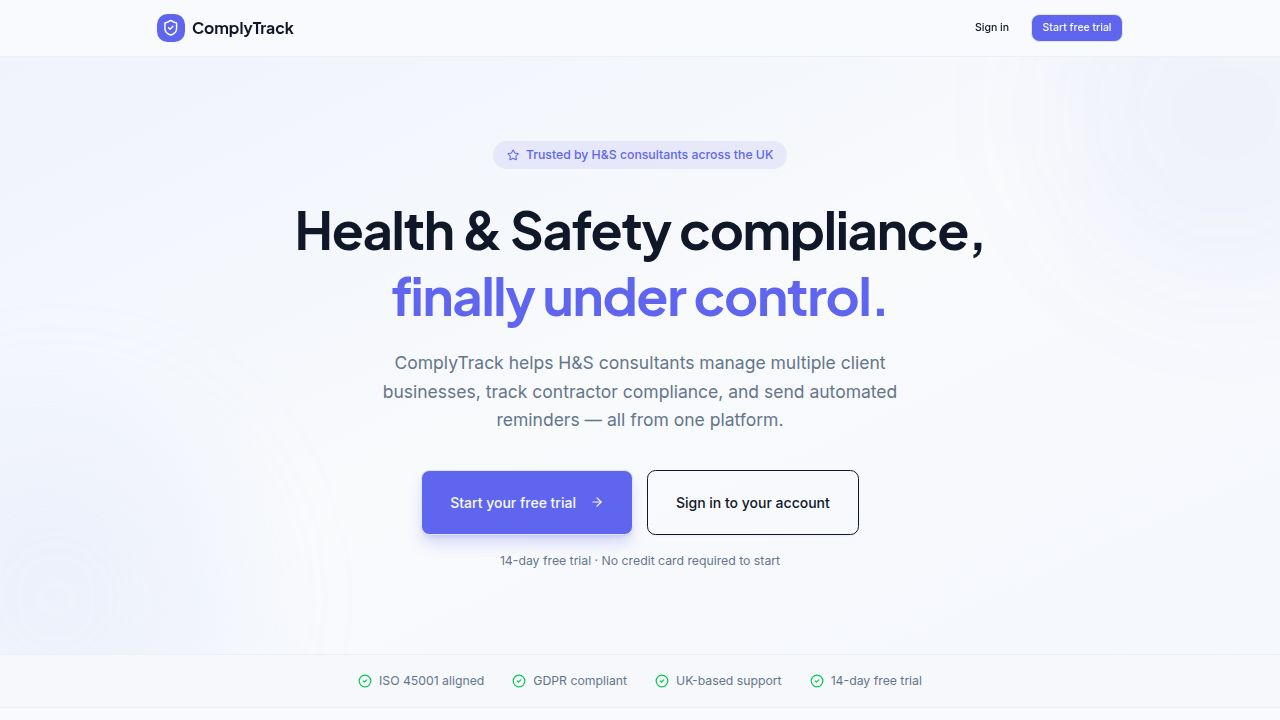
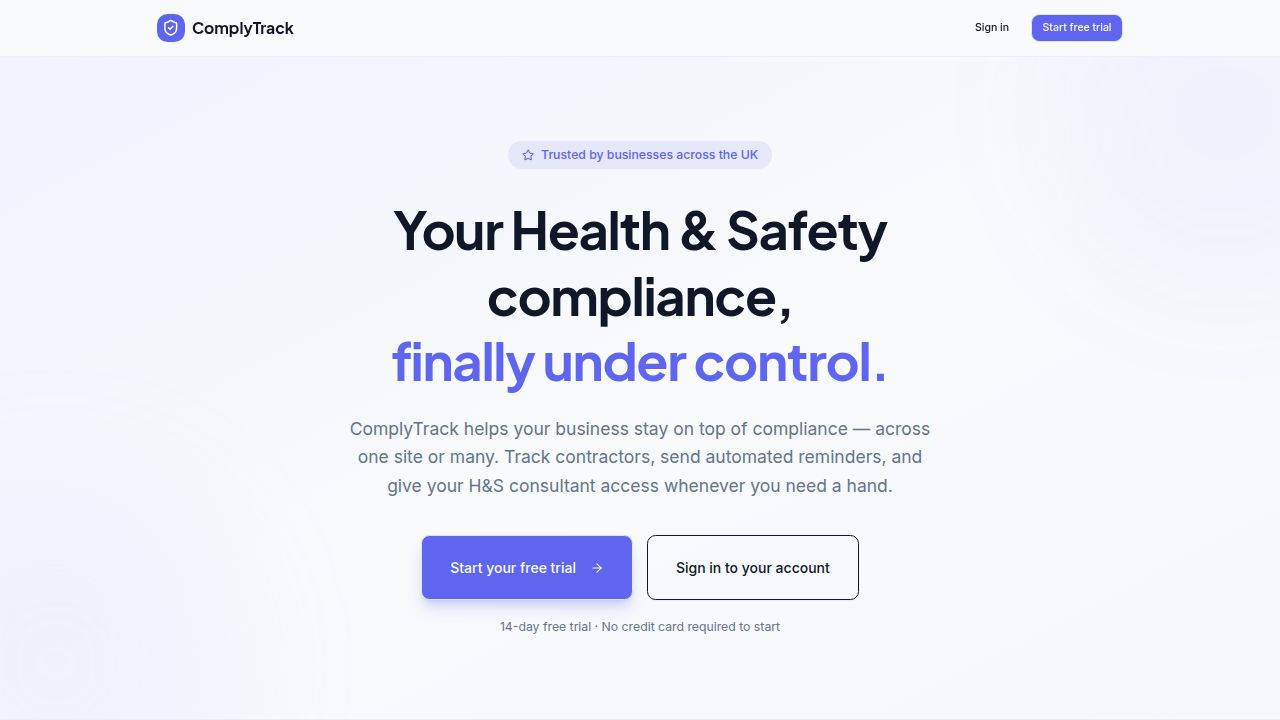
Update landing page and project documentation to target businesses
Refactors landing page copy, renames features from "client management" to "site management", and updates replit.md to reflect the new product positioning targeting individual businesses.

Replit-Commit-Author: Agent
Replit-Commit-Session-Id: d3f081e8-ec9e-47b6-984d-ecd33d533d77
Replit-Commit-Checkpoint-Type: full_checkpoint
Replit-Commit-Event-Id: e2d3d3b5-ec9b-431c-b20d-fd3377d2112c
Replit-Commit-Screenshot-Url: https://storage.googleapis.com/screenshot-production-us-central1/b1c00cfa-ecaf-4a16-a178-69b15ffe6eb7/d3f081e8-ec9e-47b6-984d-ecd33d533d77/nar0i1l
Replit-Helium-Checkpoint-Created: true

diff --git a/artifacts/compliance-tracker/src/pages/landing.tsx b/artifacts/compliance-tracker/src/pages/landing.tsx
@@ -4,12 +4,12 @@ import { Button } from "@/components/ui/button";
 import { motion } from "framer-motion";
 
 const FEATURES = [
-  { icon: Users, title: "Multi-Client Management", desc: "Manage unlimited client businesses from one dashboard. Switch between clients instantly." },
-  { icon: Bell, title: "Automated Reminders", desc: "Email contractors automatically as compliance deadlines approach. Never miss a check." },
-  { icon: FileText, title: "Contractor Tracking", desc: "Track certificates, compliance items, and contractor records with full audit trails." },
-  { icon: BarChart3, title: "Dashboard & Reporting", desc: "At-a-glance compliance status for every client. Spot issues before they become problems." },
-  { icon: Lock, title: "Role-Based Access", desc: "Invite clients with granular permissions — admin, staff, or view-only access." },
-  { icon: Zap, title: "ICS Calendar Invites", desc: "Every reminder includes a calendar attachment so contractors can schedule immediately." },
+  { icon: Users, title: "Multi-Site Ready", desc: "Manage compliance across one site or many. Keep each location's records, contractors, and tasks neatly separated." },
+  { icon: Bell, title: "Automated Reminders", desc: "Contractors and staff get email reminders as deadlines approach — so nothing slips through the cracks." },
+  { icon: FileText, title: "Contractor & Certificate Tracking", desc: "Track every contractor, insurance certificate, and compliance check with a full audit trail." },
+  { icon: BarChart3, title: "Live Compliance Dashboard", desc: "See your compliance status at a glance and spot issues long before they become problems." },
+  { icon: Lock, title: "Role-Based Access", desc: "Invite your team — and your H&S consultant if you have one — with the right level of access for each person." },
+  { icon: Zap, title: "Calendar Invites Built In", desc: "Every reminder includes a calendar attachment so contractors and staff can book the work straight in." },
 ];
 
 const PLANS = [
@@ -17,31 +17,31 @@ const PLANS = [
     name: "Starter",
     price: "£49",
     period: "/month",
-    description: "Perfect for independent consultants",
-    features: ["Up to 3 client businesses", "Core compliance tracking", "Email reminders", "Contractor portal"],
+    description: "For a single-site business",
+    features: ["1 site", "Core compliance tracking", "Email reminders", "Contractor portal"],
     highlight: false,
   },
   {
     name: "Professional",
     price: "£99",
     period: "/month",
-    description: "For growing consultancy practices",
-    features: ["Up to 10 client businesses", "All modules", "Priority support", "Advanced reporting"],
+    description: "For multi-site businesses",
+    features: ["Up to 5 sites", "All modules", "Priority support", "Advanced reporting"],
     highlight: true,
   },
   {
     name: "Enterprise",
     price: "£249",
     period: "/month",
-    description: "Unlimited scale for large practices",
-    features: ["Unlimited clients", "White-label branding", "Dedicated onboarding", "SLA guarantee"],
+    description: "For larger organisations",
+    features: ["Unlimited sites", "Custom branding", "Dedicated onboarding", "SLA guarantee"],
     highlight: false,
   },
 ];
 
 const TESTIMONIALS = [
-  { quote: "ComplyTrack saved us hours every week. Our clients love getting automatic reminders instead of us chasing them.", author: "Sarah M.", role: "H&S Consultant, Leeds" },
-  { quote: "Managing 12 client accounts used to be chaos. Now I have everything in one place with full visibility.", author: "James K.", role: "Principal Consultant, London" },
+  { quote: "We used to chase contractors over email and spreadsheets. ComplyTrack does it all for us automatically — our certificates are always up to date.", author: "Sarah M.", role: "Operations Manager, Leeds" },
+  { quote: "We manage compliance across four sites. Having everything in one place — and giving our consultant view-only access when needed — has been a game-changer.", author: "James K.", role: "Facilities Director, London" },
 ];
 
 export default function LandingPage() {
@@ -70,14 +70,14 @@ export default function LandingPage() {
         <div className="max-w-4xl mx-auto text-center">
           <motion.div initial={{ opacity: 0, y: 24 }} animate={{ opacity: 1, y: 0 }} transition={{ duration: 0.5 }}>
             <div className="inline-flex items-center gap-2 bg-primary/10 text-primary rounded-full px-4 py-1.5 text-sm font-medium mb-8">
-              <Star className="w-3.5 h-3.5" /> Trusted by H&S consultants across the UK
+              <Star className="w-3.5 h-3.5" /> Trusted by businesses across the UK
             </div>
             <h1 className="text-5xl sm:text-6xl font-bold font-display leading-tight mb-6 tracking-tight">
-              Health & Safety compliance,<br className="hidden sm:block" />
+              Your Health & Safety compliance,<br className="hidden sm:block" />
               <span className="text-primary"> finally under control.</span>
             </h1>
             <p className="text-xl text-muted-foreground mb-10 max-w-2xl mx-auto leading-relaxed">
-              ComplyTrack helps H&S consultants manage multiple client businesses, track contractor compliance, and send automated reminders — all from one platform.
+              ComplyTrack helps your business stay on top of compliance — across one site or many. Track contractors, send automated reminders, and give your H&S consultant access whenever you need a hand.
             </p>
             <div className="flex flex-col sm:flex-row items-center justify-center gap-4">
               <Button size="lg" className="px-8 py-6 text-base shadow-lg shadow-primary/25" onClick={() => navigate("/signup")}>
@@ -112,8 +112,8 @@ export default function LandingPage() {
       <section className="py-24 px-6">
         <div className="max-w-6xl mx-auto">
           <div className="text-center mb-16">
-            <h2 className="text-3xl font-bold font-display mb-3">Everything you need to run a compliance practice</h2>
-            <p className="text-muted-foreground text-lg">Built specifically for Health & Safety consultants in the UK.</p>
+            <h2 className="text-3xl font-bold font-display mb-3">Everything you need to stay compliant</h2>
+            <p className="text-muted-foreground text-lg">Built for UK businesses managing their own Health & Safety compliance.</p>
           </div>
           <div className="grid grid-cols-1 sm:grid-cols-2 lg:grid-cols-3 gap-6">
             {FEATURES.map((f, i) => (
@@ -139,7 +139,7 @@ export default function LandingPage() {
       {/* Testimonials */}
       <section className="bg-muted/20 border-y border-border/50 py-20 px-6">
         <div className="max-w-4xl mx-auto">
-          <h2 className="text-2xl font-bold font-display text-center mb-12">What consultants are saying</h2>
+          <h2 className="text-2xl font-bold font-display text-center mb-12">What businesses are saying</h2>
           <div className="grid grid-cols-1 sm:grid-cols-2 gap-6">
             {TESTIMONIALS.map((t) => (
               <div key={t.author} className="bg-card border border-border/50 rounded-2xl p-6">
@@ -162,7 +162,7 @@ export default function LandingPage() {
         <div className="max-w-5xl mx-auto">
           <div className="text-center mb-14">
             <h2 className="text-3xl font-bold font-display mb-3">Simple, transparent pricing</h2>
-            <p className="text-muted-foreground text-lg">Choose the plan that fits your practice. Upgrade or downgrade anytime.</p>
+            <p className="text-muted-foreground text-lg">Choose the plan that fits your business. Upgrade or downgrade anytime.</p>
           </div>
           <div className="grid grid-cols-1 sm:grid-cols-3 gap-6">
             {PLANS.map((plan) => (
@@ -212,8 +212,8 @@ export default function LandingPage() {
       {/* CTA Banner */}
       <section className="bg-primary py-20 px-6">
         <div className="max-w-3xl mx-auto text-center">
-          <h2 className="text-3xl font-bold text-white font-display mb-4">Ready to take control of your compliance practice?</h2>
-          <p className="text-white/70 text-lg mb-8">Join consultants across the UK using ComplyTrack to run more efficient, more profitable practices.</p>
+          <h2 className="text-3xl font-bold text-white font-display mb-4">Ready to take control of your compliance?</h2>
+          <p className="text-white/70 text-lg mb-8">Join businesses across the UK using ComplyTrack to stay safe, organised, and audit-ready.</p>
           <Button size="lg" variant="secondary" className="px-8 py-6 text-base" onClick={() => navigate("/signup")}>
             Create your free account <ArrowRight className="w-4 h-4 ml-2" />
           </Button>

diff --git a/replit.md b/replit.md
@@ -1,9 +1,14 @@
-# Compliance Tracker — Multi-Tenant SaaS
+# ComplyTrack — Health & Safety Compliance for UK Businesses
 
 ## Overview
 
-Multi-tenant Health & Safety compliance tracking platform for H&S consultants.
-Each client organisation gets a branded login experience and scoped access to their data.
+Health & Safety compliance tracking platform for **individual UK businesses** managing
+their own compliance — across one site or many. Businesses can optionally invite their
+external H&S consultant in with scoped access when needed.
+
+The underlying architecture is multi-tenant (each business is isolated from others on
+the platform), but the product is positioned and sold direct to businesses, not to
+consultants managing portfolios of clients.
 
 - **External Compliance**: Contractor-managed visits, certificates, email reminders
 - **Internal Compliance**: Internal staff compliance checks
